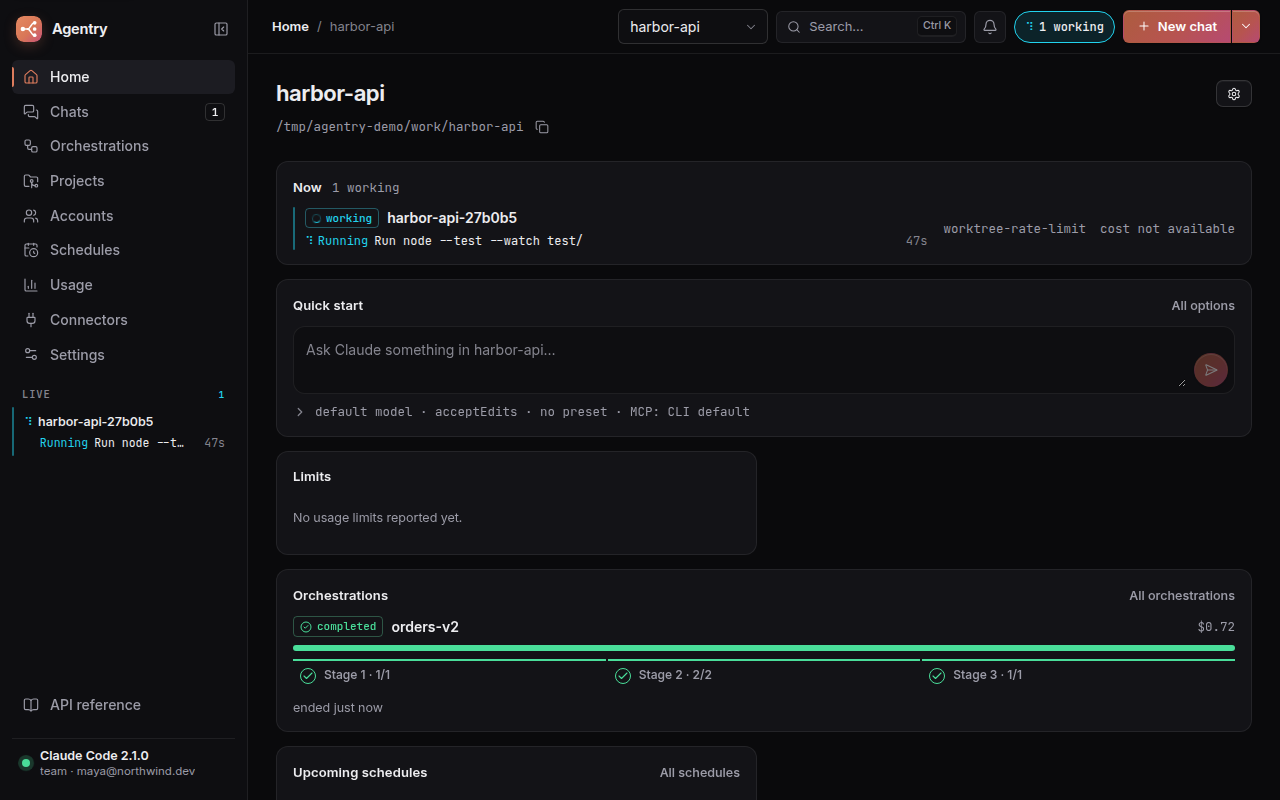
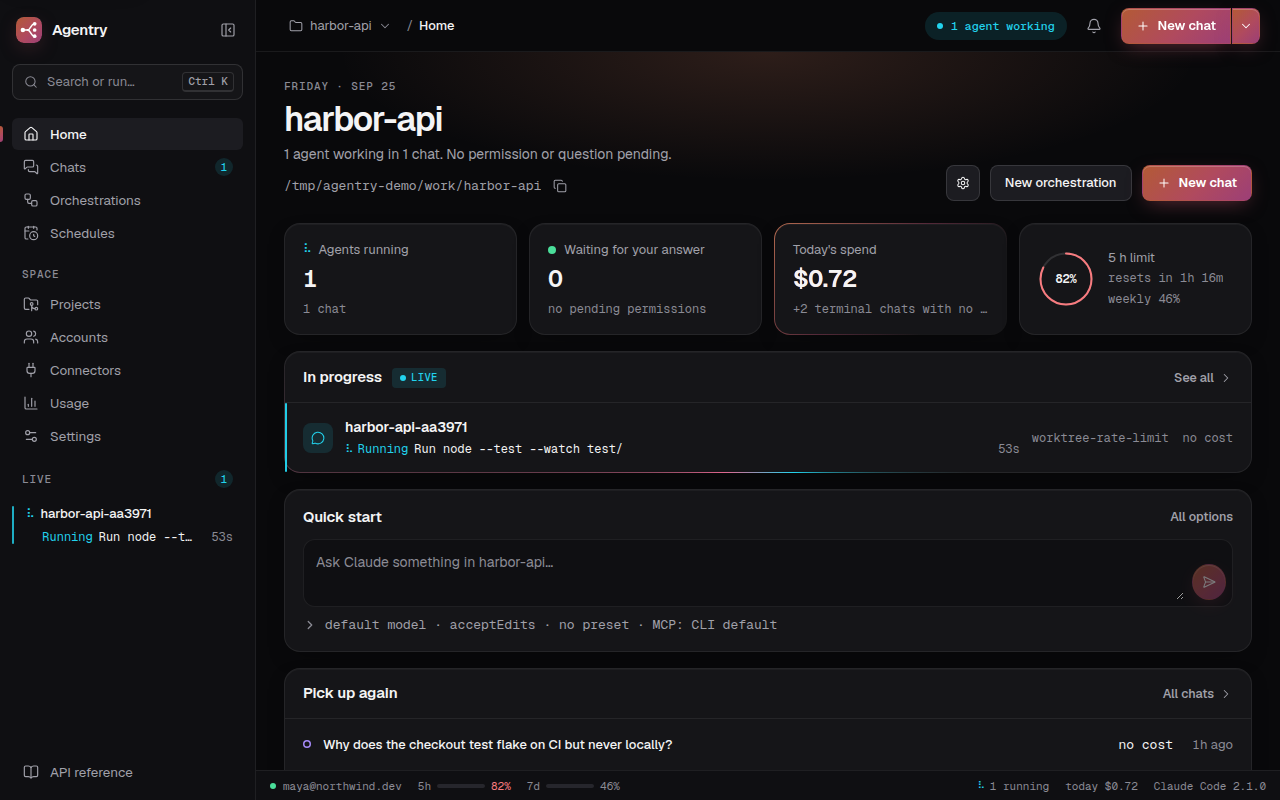
docs(media): re-record the README tour and stills in Night Shift
pnpm media against the redesigned UI; the alt texts describe what the new
screens show.

diff --git a/README.md b/README.md
@@ -16,7 +16,7 @@ A REST API, a web UI and multi-agent orchestration around the Claude Code CLI, i
 [![OpenAPI](https://img.shields.io/badge/OpenAPI-3.1-6ba539?logo=openapiinitiative&logoColor=white)](#rest-api)
 [![Buy me a coffee](https://img.shields.io/badge/buy%20me%20a%20coffee-ffdd00?logo=buymeacoffee&logoColor=black)](https://buymeacoffee.com/yeyo11)
 
-<img src="docs/media/tour.gif" alt="A tour of Agentry: a project's dashboard with what is working now, the command palette, a working chat with its activity ticker and the inspector's changes and diff, an orchestration followed as steps through to its verification, and the accounts with their usage" width="100%">
+<img src="docs/media/tour.gif" alt="A tour of Agentry in the Night Shift design: a project's dashboard with what is working now, the command palette, a working chat with its activity and the inspector's changes, an orchestration followed as steps through to its verification, and the accounts with their usage" width="100%">
 
 </div>
 
@@ -105,25 +105,25 @@ docker run -p 127.0.0.1:8787:8787 -v agentry-data:/data ghcr.io/yeyo11/agentry
 
 ### A project's dashboard: what is working now, and what to pick up
 
-<img src="docs/media/home.png" alt="A project's dashboard: a Now widget with one working chat and the command it is running, a quick-start prompt with its model and permission mode in one line, the usage limits and the latest orchestration with its stages done" width="100%">
+<img src="docs/media/home.png" alt="A project's dashboard in the dark theme: a hero saying one agent is working, tiles for agents running, answers waiting, today's spend and the 5 h limit ring, the chat in progress with the command it is running, a quick-start prompt and the chats to pick up again, above the status bar with the account and its limits" width="100%">
 
 ### Workers in parallel, then one branch that was checked
 
-<img src="docs/media/orchestration.png" alt="An orchestration followed as steps: a pinned summary with its status, cost and task progress, a stepper on stage 2 of 3 followed by integration, verification and pull request, and the stage's two tasks running side by side, each saying what it is running" width="100%">
+<img src="docs/media/orchestration.png" alt="An orchestration followed as steps: its objective and settings, tiles for tasks, time, cost and parallel workers, a pipeline on stage 2 of 3 followed by integration, verification and pull request, and the stage's two tasks running side by side, the most active one with the energy border" width="100%">
 
 ### See what an agent really did, and step in
 
-<img src="docs/media/chat.png" alt="A working chat: its transcript with the tool calls folded into steps, a ticker saying the command it is running now, and beside it the inspector's Changes tab with the branch, commit and files it changed" width="100%">
+<img src="docs/media/chat.png" alt="A working chat: its transcript with the tool calls folded into steps and the command it is running now, the composer with its energy border and Interrupt, and beside it the inspector's Changes tab with the branch, commit and files it changed" width="100%">
 
-<p align="center"><img src="docs/media/chat-mobile.png" alt="The same working chat on a phone: a one-line header, the transcript with its folded steps and ticker, and the composer with its status line at the bottom" width="320"></p>
+<p align="center"><img src="docs/media/chat-mobile.png" alt="The same working chat on a phone: a one-line header, the transcript with its folded steps and what it is running, and the composer with its model and permission chips at the bottom" width="320"></p>
 
 ### Several accounts, rotated before they run out
 
-<img src="docs/media/accounts.png" alt="The accounts page: three accounts with the share of each usage window they have spent, and which one is active" width="100%">
+<img src="docs/media/accounts.png" alt="The accounts page: the account in use first with a highlighted border, then the others, each with the share of every usage window it has spent, bars that turn amber and red as they near the limit, and when each window resets" width="100%">
 
 ### Work that comes back every night
 
-<img src="docs/media/schedules.png" alt="The schedules page: a nightly chat, a weekly orchestration and one paused, each with its cron expression in words, and a run history where a slot that overlapped a running one is marked" width="100%">
+<img src="docs/media/schedules.png" alt="The schedules page: a nightly chat with its run history open, where a slot that overlapped a running one is marked, and a weekly orchestration, each with its cron expression in words and its next run" width="100%">
 
 ## How it talks to Claude
 
